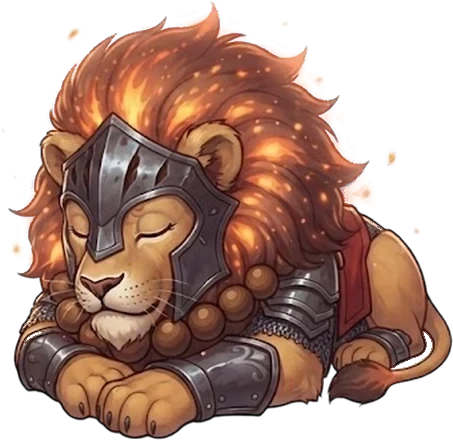
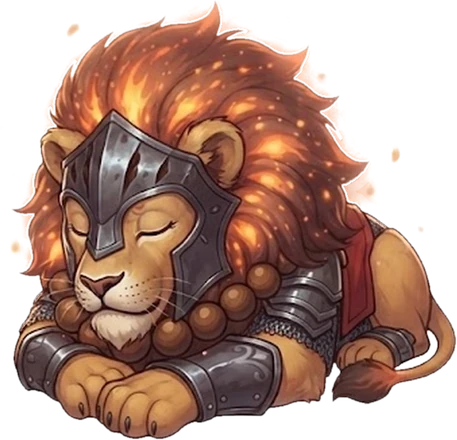
Compagnons couchés : nouveau détourage (aucun blanc, trous réels transparents, lueurs propres)
Claude-Session: https://claude.ai/code/session_014VBvzn7cPipHkoepy8RC9p

diff --git a/index.html b/index.html
@@ -6000,7 +6000,7 @@ var COMP = {
     pup: [{eyes: [[0.27, 0.355, 0.045, 0.045], [-1, -1, 0.01, 0.01]], head: [[0.18, 0.36], [0.32, 0.46], 0.25], tail: [[0.5, 0.3], [0.52, 0.12], 0.15], glow: [[0.52, 0.12, 0.12]], ts: 0.5},
       {eyes: [[0.18, 0.415, 0.03, 0.03], [-1, -1, 0.01, 0.01]], head: [[0.16, 0.42], [0.28, 0.48], 0.16], tail: [[0.55, 0.25], [0.56, 0.12], 0.14], glow: [[0.56, 0.14, 0.08], [0.65, 0.45, 0.2]], ts: 0.5},
       {eyes: [[0.177, 0.473, 0.025, 0.02], [-1, -1, 0.01, 0.01]], head: [[0.15, 0.49], [0.27, 0.55], 0.14], tail: [[0.45, 0.25], [0.45, 0.05], 0.1], glow: [[0.45, 0.04, 0.08], [0.7, 0.55, 0.2]], ts: 0.5}]}};
-var COMP_SL = {"panda":[[532,440,34,7],[724,440,35,6],[553,440,32,2]],"rhino":[[579,440,30,2],[636,440,29,4],[548,440,21,21]],"axolotl":[[457,440,28,13],[426,440,46,9],[562,440,35,4]],"lion":[[524,440,34,2],[577,440,32,7],[453,440,46,2]],"sanglier":[[564,440,29,7],[532,440,31,11],[463,440,35,2]],"panthere":[[727,440,42,2],[707,440,71,11],[795,440,47,25]],"ours":[[502,440,20,19],[633,440,35,34],[625,440,23,15]],"pegase":[[666,440,27,2],[689,440,19,10],[604,440,22,2]],"renard":[[460,440,39,2],[609,440,17,6],[572,440,17,15]],"tortue":[[600,440,22,27],[424,440,14,52],[355,440,26,56]]}; // images couchées (largeur, hauteur, point au-dessus de la tête en %) pour le Repos
+var COMP_SL = {"panda":[[534,440,34,7],[730,440,35,6],[553,440,32,2]],"rhino":[[579,440,30,2],[636,440,29,4],[549,440,21,21]],"axolotl":[[459,440,28,13],[426,440,46,9],[562,440,35,4]],"lion":[[527,440,34,2],[578,440,32,7],[457,440,46,2]],"sanglier":[[562,440,29,7],[532,440,31,11],[463,440,35,2]],"panthere":[[706,440,40,2],[768,440,73,11],[794,440,47,25]],"ours":[[502,440,20,19],[634,440,35,34],[627,440,23,15]],"pegase":[[671,440,27,2],[700,440,19,10],[605,440,22,2]],"renard":[[460,440,39,2],[615,440,17,6],[574,440,17,15]],"tortue":[[600,440,22,27],[426,440,14,52],[356,440,26,56]]}; // images couchées (largeur, hauteur, point au-dessus de la tête en %) pour le Repos
 var HATCH_LV = 5; // le premier œuf éclot au niveau 5 (environ 3 séances)
 var COMP_LIVE = true; // false = compagnons visibles seulement dans le mode test (Réglages, 7 touches sur la version)
 const compList = () => Object.keys(COMP).filter(k => COMP[k].ok); // créatures qu'on peut choisir maintenant
@@ -6226,7 +6226,7 @@ function compSrc(k) {
 }
 function compArt(k, cls = '') {
   const sl = k.st >= 0 && k.mood === 'sleep' && COMP[k.sp] && (COMP_SL[k.sp] || [])[Math.min(k.st, 2)];
-  if (sl) { const src = `comp/${COMP[k.sp].f}${Math.min(k.st, 2)}s.webp?v=5`; // v= : à augmenter quand on remplace ces images (sinon l'ancienne reste en cache) // au repos le compagnon dort couché : image dédiée, respiration lente, « z » au-dessus de sa tête
+  if (sl) { const src = `comp/${COMP[k.sp].f}${Math.min(k.st, 2)}s.webp?v=6`; // v= : à augmenter quand on remplace ces images (sinon l'ancienne reste en cache) // au repos le compagnon dort couché : image dédiée, respiration lente, « z » au-dessus de sa tête
     return `<div class="cpw ${cls} slp m-sleep${k.st === 3 ? ' gold' : ''}" style="--cpm:url(${src})"><span class="cpsq" style="width:${Math.min(100, sl[0] / sl[1] * 100).toFixed(1)}%;aspect-ratio:${sl[0]}/${sl[1]};--zx:${sl[2]}%;--zy:${sl[3]}%"><img src="${src}" onerror="this.onerror=null;this.src='${k.img}'" alt="${esc(k.name)}" loading="lazy"><i class="cpfx">z</i><i class="cpfx b">z</i></span></div>`; }
   const own = k.st >= 0 && (COMP_MOODV[k.img.slice(5, -5)] || []).includes(k.mood), D = COMP[k.sp], pc = k.st >= 0 && D && D.pup && D.pup[Math.min(k.st, 2)];
   if (pc && !compStill() && pupOk()) return `<div class="cpw ${cls} pup m-${k.mood}${k.st === 3 ? ' gold' : ''}" style="--cpm:url(${k.img})"><rl-pup src="${k.img}" mood="${k.mood}" cfg='${JSON.stringify(pc)}'></rl-pup><i class="cpfx">${k.mood === 'sleep' ? 'z' : k.mood === 'sad' ? '💧' : '✦'}</i><i class="cpfx b">${k.mood === 'sleep' ? 'z' : '✦'}</i></div>`;
@@ -7442,7 +7442,7 @@ function doImport() {
 
 
 /* ===================== Nouveautés (à mettre à jour à chaque version) ===================== */
-const APP_VERSION = '9.126.4'; // ⚠ Mettre aussi le même numéro dans version.json (sinon pas de mise à jour automatique)
+const APP_VERSION = '9.126.5'; // ⚠ Mettre aussi le même numéro dans version.json (sinon pas de mise à jour automatique)
 /* Notes de mise à jour : UNE seule entrée par jour. Si une entrée existe déjà pour aujourd'hui, mets-la à jour (v = dernière version, ajoute/réécris les puces) au lieu d'en ajouter une nouvelle. */
 const CHANGELOG = [
   {v: '9.126.0', d: '2026-11-24', fr: ['Nouveau : les compagnons arrivent. À ton premier niveau 5, ton œuf éclot et tu choisis ton compagnon parmi 10 créatures. Il grandit avec votre lien (cœurs gagnés en t\'entraînant, en battant des records, en finissant tes quêtes), prend 4 formes et dort couché quand tu te reposes. Il ne perd jamais rien si tu t\'absentes.'], en: ['New: companions are here. At your first level 5 your egg hatches and you choose your companion among 10 creatures. It grows with your bond (hearts earned by training, beating records, finishing quests), takes 4 forms and sleeps lying down when you rest. It never loses anything if you take a break.']},
